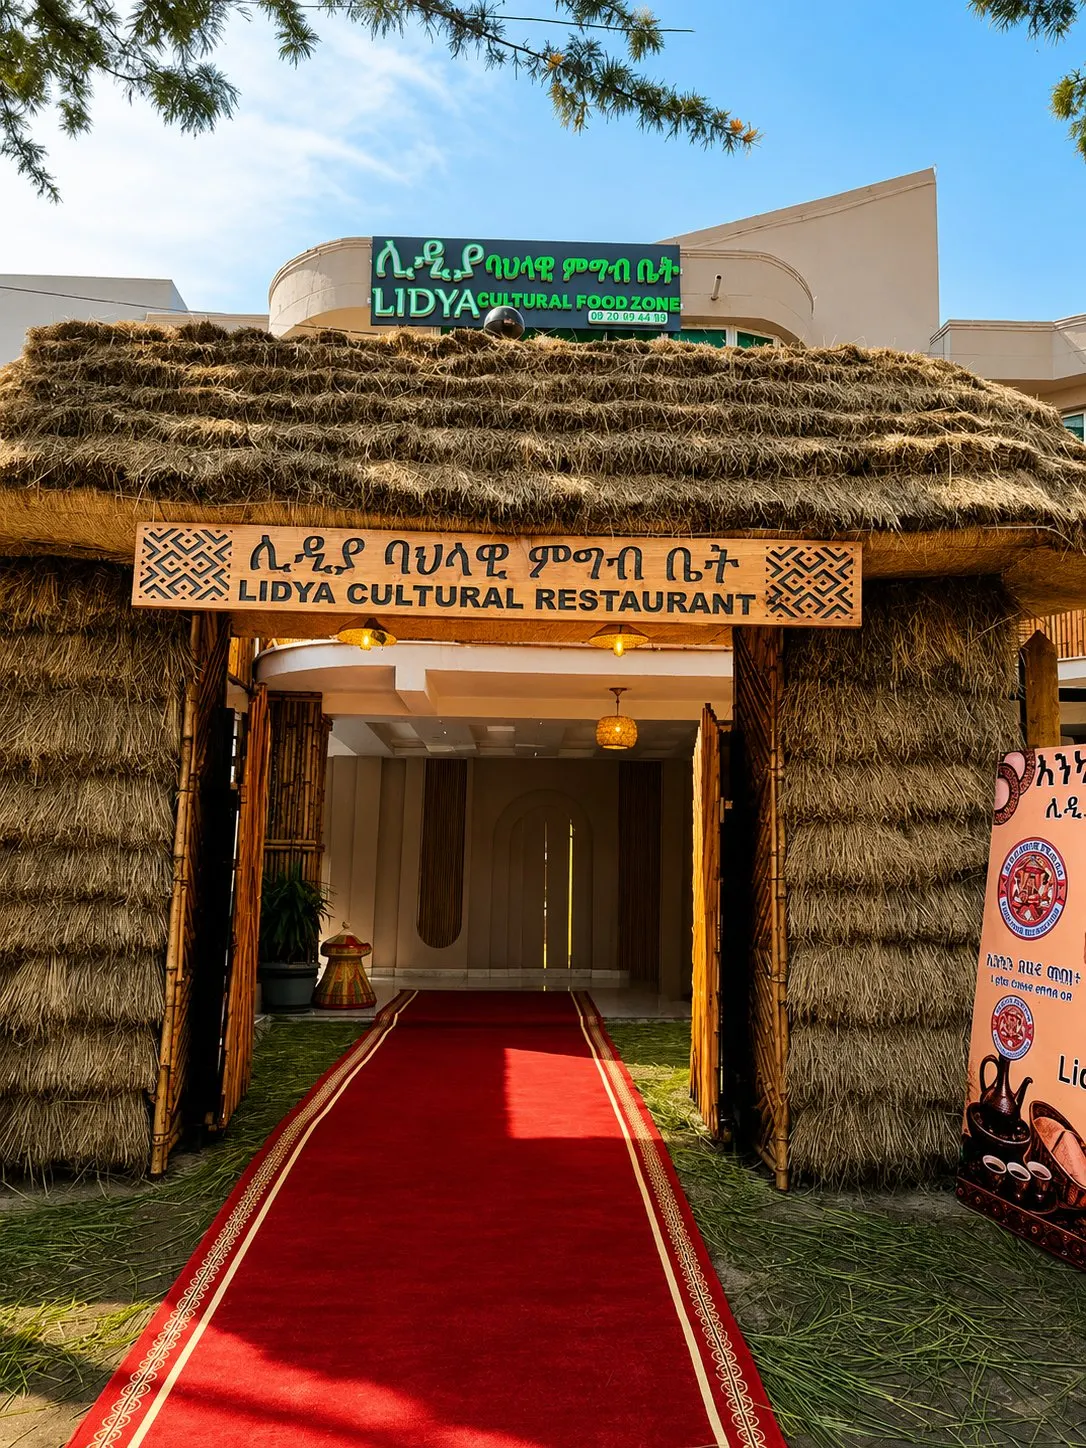
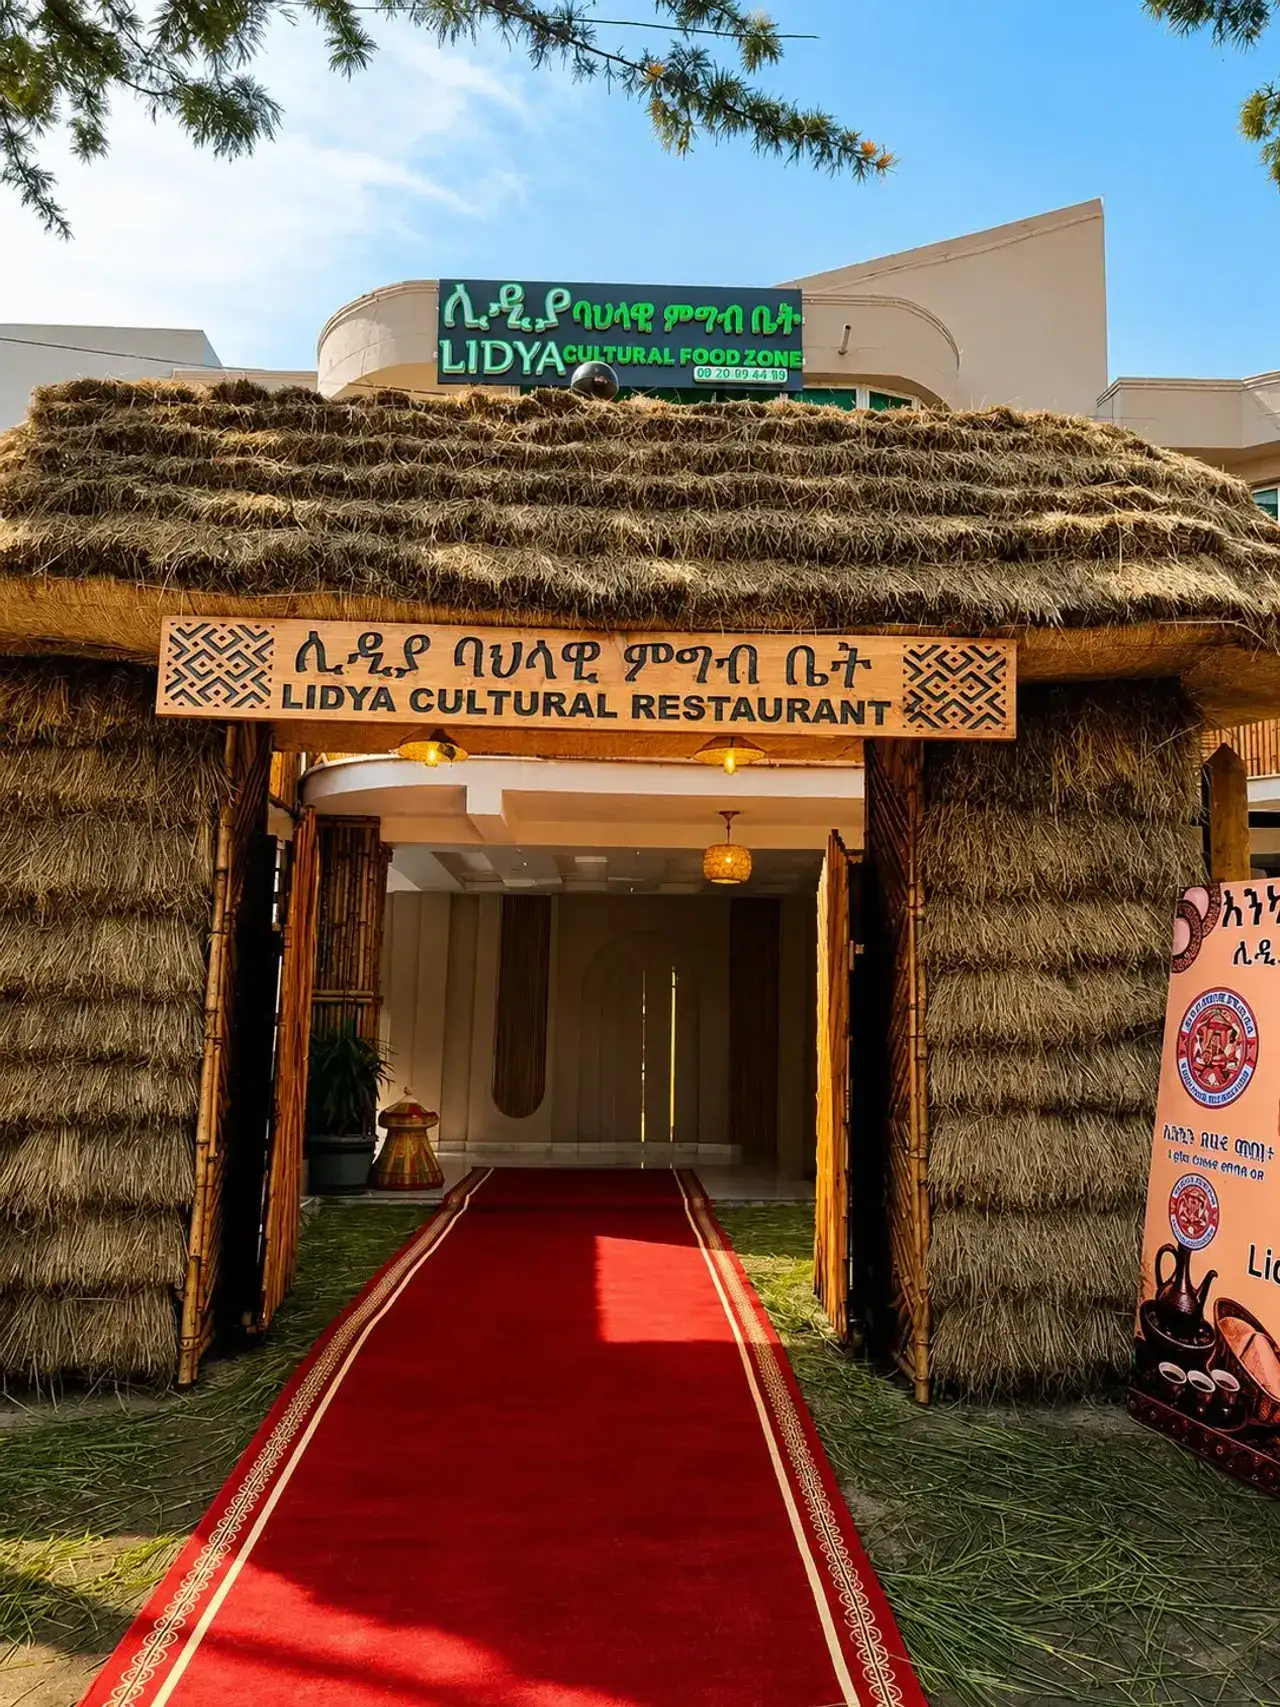
Shrink hero image further and fetch it with high priority

diff --git a/frontend/src/app/components/sections/Hero.tsx b/frontend/src/app/components/sections/Hero.tsx
@@ -214,6 +214,7 @@ export function Hero() {
           alt="Everyday life and hospitality at Lidya"
           className="w-full h-full object-cover object-center"
           loading="eager"
+          {...({ fetchpriority: "high" } as any)}
           initial={{ opacity: 0 }}
           animate={{ opacity: 1 }}
           transition={{ duration: 1.2, ease: "easeOut", delay: 0.1 }}
@@ -239,6 +240,7 @@ export function Hero() {
           alt="Everyday life and hospitality at Lidya"
           className="w-full h-full object-cover object-center"
           loading="eager"
+          {...({ fetchpriority: "high" } as any)}
           initial={{ opacity: 0 }}
           animate={{ opacity: 1 }}
           transition={{ duration: 1.4, ease: "easeOut", delay: 0.2 }}
